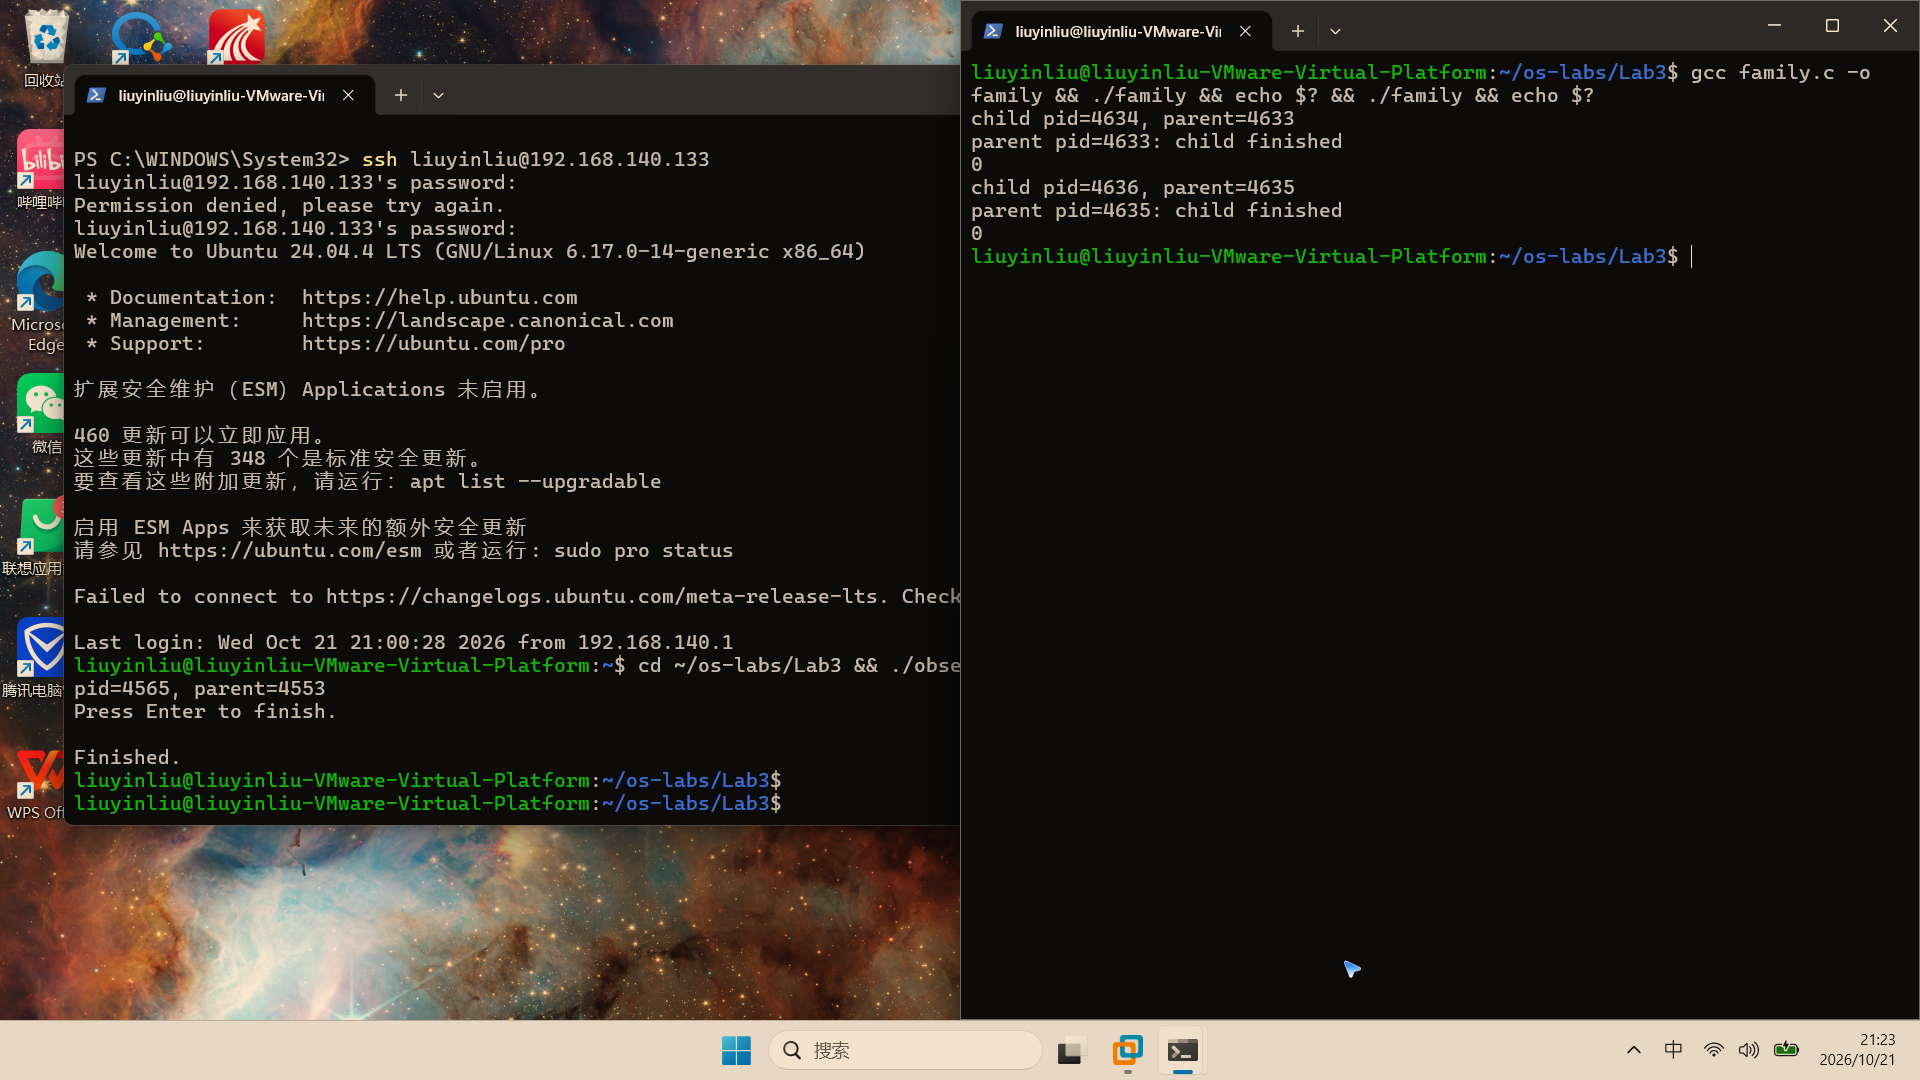
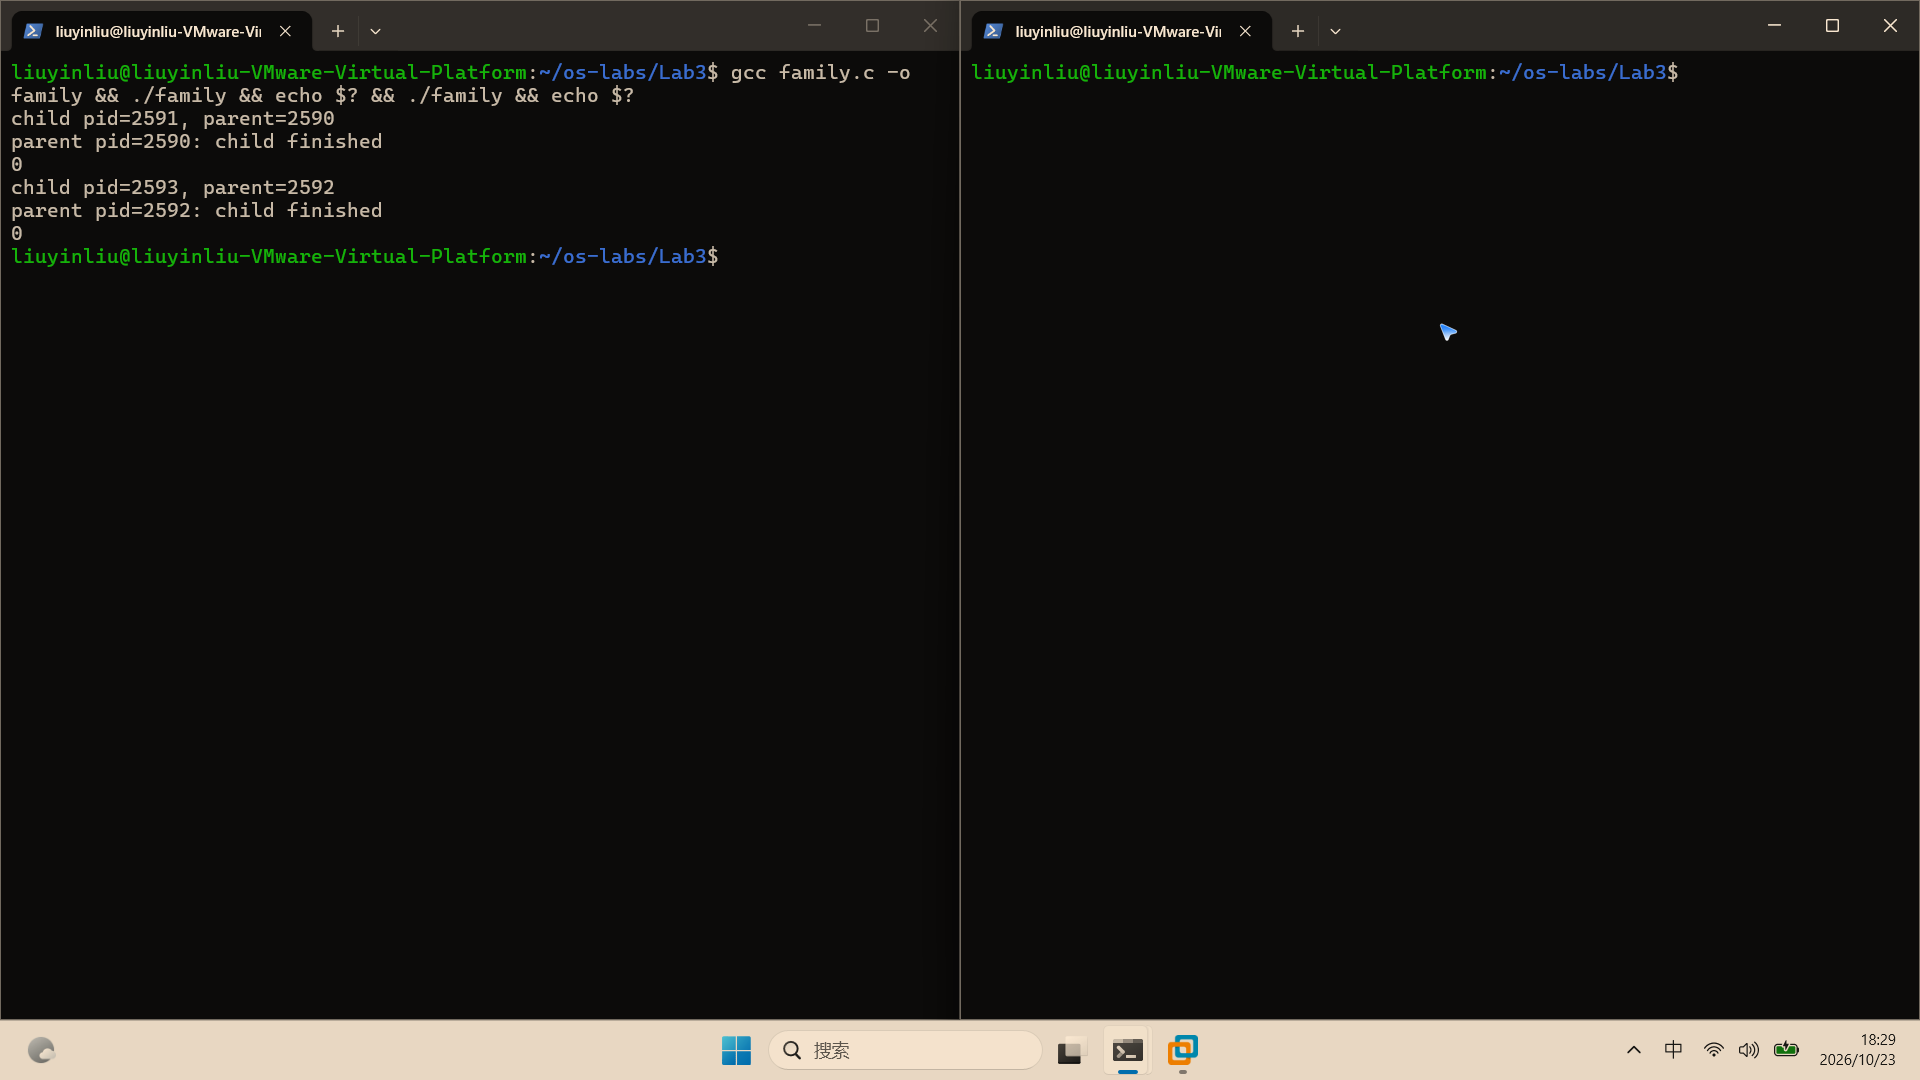
Lab3: 重截干净终端截图, 同步新实验 PID 数据

diff --git a/2026333009刘银柳/Lab3/Lab3.md b/2026333009刘银柳/Lab3/Lab3.md
@@ -250,8 +250,8 @@ ps -p 2401 -o pid,ppid,stat,comm
 
 | 字段 | observe 自己输出 | ps 查询输出 | 是否一致或如何解释 |
 | :--- | :--- | :--- | :--- |
-| PID | 4565 | 4565 | 一致，两个来源都是 4565 |
-| PPID | 4553 | 4553 | 一致，父进程都是终端 A 的 Shell（bash） |
+| PID | 2487 | 2487 | 一致，两个来源都是 2487 |
+| PPID | 2393 | 2393 | 一致，父进程都是终端 A 的 Shell（bash） |
 | STAT | 不由 observe 显示 | S+ | `S`=可中断睡眠（在等键盘输入），`+`=前台进程组 |
 | COMM | 不由 observe 显示 | observe | 与可执行文件名一致 |
 
@@ -278,13 +278,13 @@ ps -p 2401 -o pid,ppid,stat,comm
 | 比较项 | A 中的运行 | B 中的运行 |
 | :--- | :--- | :--- |
 | 可执行文件名 | observe | observe |
-| 实际 PID | 4565 | 4574 |
-| 实际 PPID | 4553 | 4430 |
+| 实际 PID | 2487 | 2583 |
+| 实际 PPID | 2393 | 2555 |
 | 是否仍在等待回车 | 是 | 是 |
 
 **解释：**为什么同一份文件可以有两个 PID？两个 PPID 是否必须相同？结合你使用两个 Shell 的实际情况说明。
 
-> 填写：同一份可执行文件只是磁盘上的一段程序，运行它时内核会为这一次执行创建一个独立的进程，并分配不同的 PID，所以同一份 observe 文件可以同时有两个进程（4565 和 4574）。两个 PPID 不必相同：A 和 B 是两个独立的 SSH 会话，各有自己的 Shell（bash）进程，A 的 observe 由 PID 为 4553 的 bash 启动，B 的 observe 由 PID 为 4430 的 bash 启动，所以两个父进程的 PID 不同。
+> 填写：同一份可执行文件只是磁盘上的一段程序，运行它时内核会为这一次执行创建一个独立的进程，并分配不同的 PID，所以同一份 observe 文件可以同时有两个进程（2487 和 2583）。两个 PPID 不必相同：A 和 B 是两个独立的 SSH 会话，各有自己的 Shell（bash）进程，A 的 observe 由 PID 为 2393 的 bash 启动，B 的 observe 由 PID 为 2555 的 bash 启动，所以两个父进程的 PID 不同。
 
 ### 第二步：画两条父子链
 
@@ -292,12 +292,12 @@ ps -p 2401 -o pid,ppid,stat,comm
 
 | 链路 | 父（Shell）的 PID | 子（observe）的 PID |
 | :--- | :--- | :--- |
-| 终端 A 这一支 | 4553 | 4565 |
-| 终端 B 这一支 | 4430 | 4574 |
+| 终端 A 这一支 | 2393 | 2487 |
+| 终端 B 这一支 | 2555 | 2583 |
 
 **回答：**两条链的「父」为什么是不同的数字？
 
-> 填写：因为两个终端是两个独立进程环境：A、B 分别由两条 SSH 连接建立，各自运行着一个独立的 bash。4553 是 A 会话的 bash，4430 是 B 会话的 bash，所以两条链的父进程 PID 不同。
+> 填写：因为两个终端是两个独立进程环境：A、B 分别由两条 SSH 连接建立，各自运行着一个独立的 bash。2393 是 A 会话的 bash，2555 是 B 会话的 bash，所以两条链的父进程 PID 不同。
 
 保存第一张截图：终端 A 和终端 B 并排显示，A 中的 PID、B 先前的 `ps` 命令及结果、B 新启动的另一个 PID 都应可读。此时只是观察等待中的两个进程，截图不需要再开第三个终端。
 
@@ -323,8 +323,8 @@ echo $?
 
 | 项目 | 本人结果 |
 | :--- | :--- |
-| 结束后查询的实际命令 | `ps -p 4565 -o pid,ppid,stat,comm` |
-| `ps` 实际输出/是否仍有数据行 | 只剩表头 `PID PPID STAT COMMAND`，没有 4565 的数据行（进程已退出） |
+| 结束后查询的实际命令 | `ps -p 2487 -o pid,ppid,stat,comm` |
+| `ps` 实际输出/是否仍有数据行 | 只剩表头 `PID PPID STAT COMMAND`，没有 2487 的数据行（进程已退出） |
 | 紧接 `ps` 的结束状态 | `echo $?` 输出 1（非零）：`ps` 找不到所选进程，不是系统故障 |
 | 磁盘上的 observe 文件是否仍然存在；怎样检查 | 仍然存在：`ls -l observe` 显示 `-rwxrwxr-x 1 liuyinliu liuyinliu 16136 10月 21 20:50 observe` |
 
@@ -447,14 +447,14 @@ echo $?
 
 | 运行 | 子 pid | 子行中的 parent | 父完成行的 pid | 输出顺序 | 结束状态 |
 | :--- | :--- | :--- | :--- | :--- | :--- |
-| 第一次 | 4634 | 4633 | 4633 | child 行先出现，parent 完成行后出现 | 0 |
-| 第二次 | 4636 | 4635 | 4635 | child 行先出现，parent 完成行后出现 | 0 |
+| 第一次 | 2591 | 2590 | 2590 | child 行先出现，parent 完成行后出现 | 0 |
+| 第二次 | 2593 | 2592 | 2592 | child 行先出现，parent 完成行后出现 | 0 |
 
 **回答：**
 
 1. 本例中的 fork 返回 0 是否意味着子 PID 为 0？
 
-> 填写：不是。`fork` 返回 0 只是用来标记「当前执行到这里的进程是子进程」，子进程自己的 PID 要调用 `getpid()` 取得（本例分别是 4634、4636），不会是 0；PID 0 一般不用作普通进程编号。
+> 填写：不是。`fork` 返回 0 只是用来标记「当前执行到这里的进程是子进程」，子进程自己的 PID 要调用 `getpid()` 取得（本例分别是 2591、2593），不会是 0；PID 0 一般不用作普通进程编号。
 
 2. 如果只看 C 文件中哪一行写在上面，能否一般地判断父子执行先后？本例的 `waitpid` 提供了什么保证？
 
@@ -535,7 +535,7 @@ echo $?
 
 4. 本次遇到的一个问题、你的定位方法和最终状态；若没有遇到故障，写一个自己主动核对的步骤。
 
-> 填写：在终端 B 直接执行 `./observe` 时报错 `-bash: ./observe: 没有那个文件或目录`。定位方法：看到 "No such file or directory" 后，判断是当前目录不对——B 终端还停在主目录 `~`，而 `observe` 可执行文件在练习目录 `~/os-labs/Lab3` 里；先执行 `cd ~/os-labs/Lab3` 再重新运行 `./observe`，成功输出 `pid=4574, parent=4430`。最终状态：已解决，后续命令都在练习目录中执行。
+> 填写：在终端 B 直接执行 `./observe` 时报错 `-bash: ./observe: 没有那个文件或目录`。定位方法：看到 "No such file or directory" 后，判断是当前目录不对——B 终端还停在主目录 `~`，而 `observe` 可执行文件在练习目录 `~/os-labs/Lab3` 里；先执行 `cd ~/os-labs/Lab3` 再重新运行 `./observe`，成功输出 `pid=2583, parent=2555`。最终状态：已解决，后续命令都在练习目录中执行。
 
 ---
 
